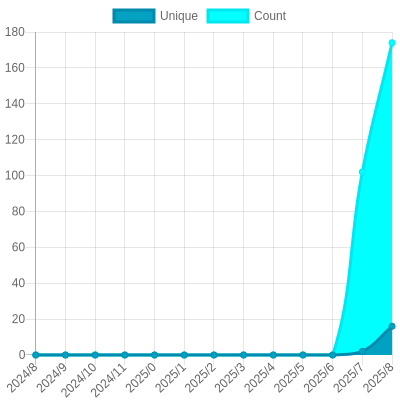
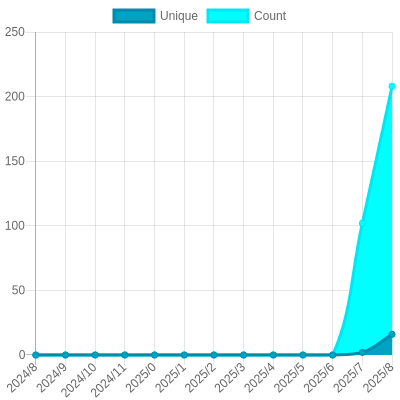
Update views

diff --git a/readme/849790671/year.md b/readme/849790671/year.md
@@ -26,7 +26,7 @@
 			<code>16</code>
 		</td>
 		<td>
-			<code>174</code>
+			<code>208</code>
 		</td>
 	</tr>
 	<tr>
@@ -164,7 +164,7 @@
 </table>
 
 </details>
-<small><i>Last updated on 2024/9/25 6:19 AM UTC</i></small>
+<small><i>Last updated on 2024/9/25 12:27 PM UTC</i></small>
 
 ## ✂Copy and 📋 Paste
 ### SVG Badge

diff --git a/README.md b/README.md
@@ -37,7 +37,7 @@ The project created and maintained by [gayanvoice](https://github.com/gayanvoice
 	</tr>
 </table>
 
-<small><i>Last updated on 2024/9/25 6:19 AM UTC</i></small>
+<small><i>Last updated on 2024/9/25 12:28 PM UTC</i></small>
 
 ## ✂Copy and 📋 Paste
 ### Total Views Badge
